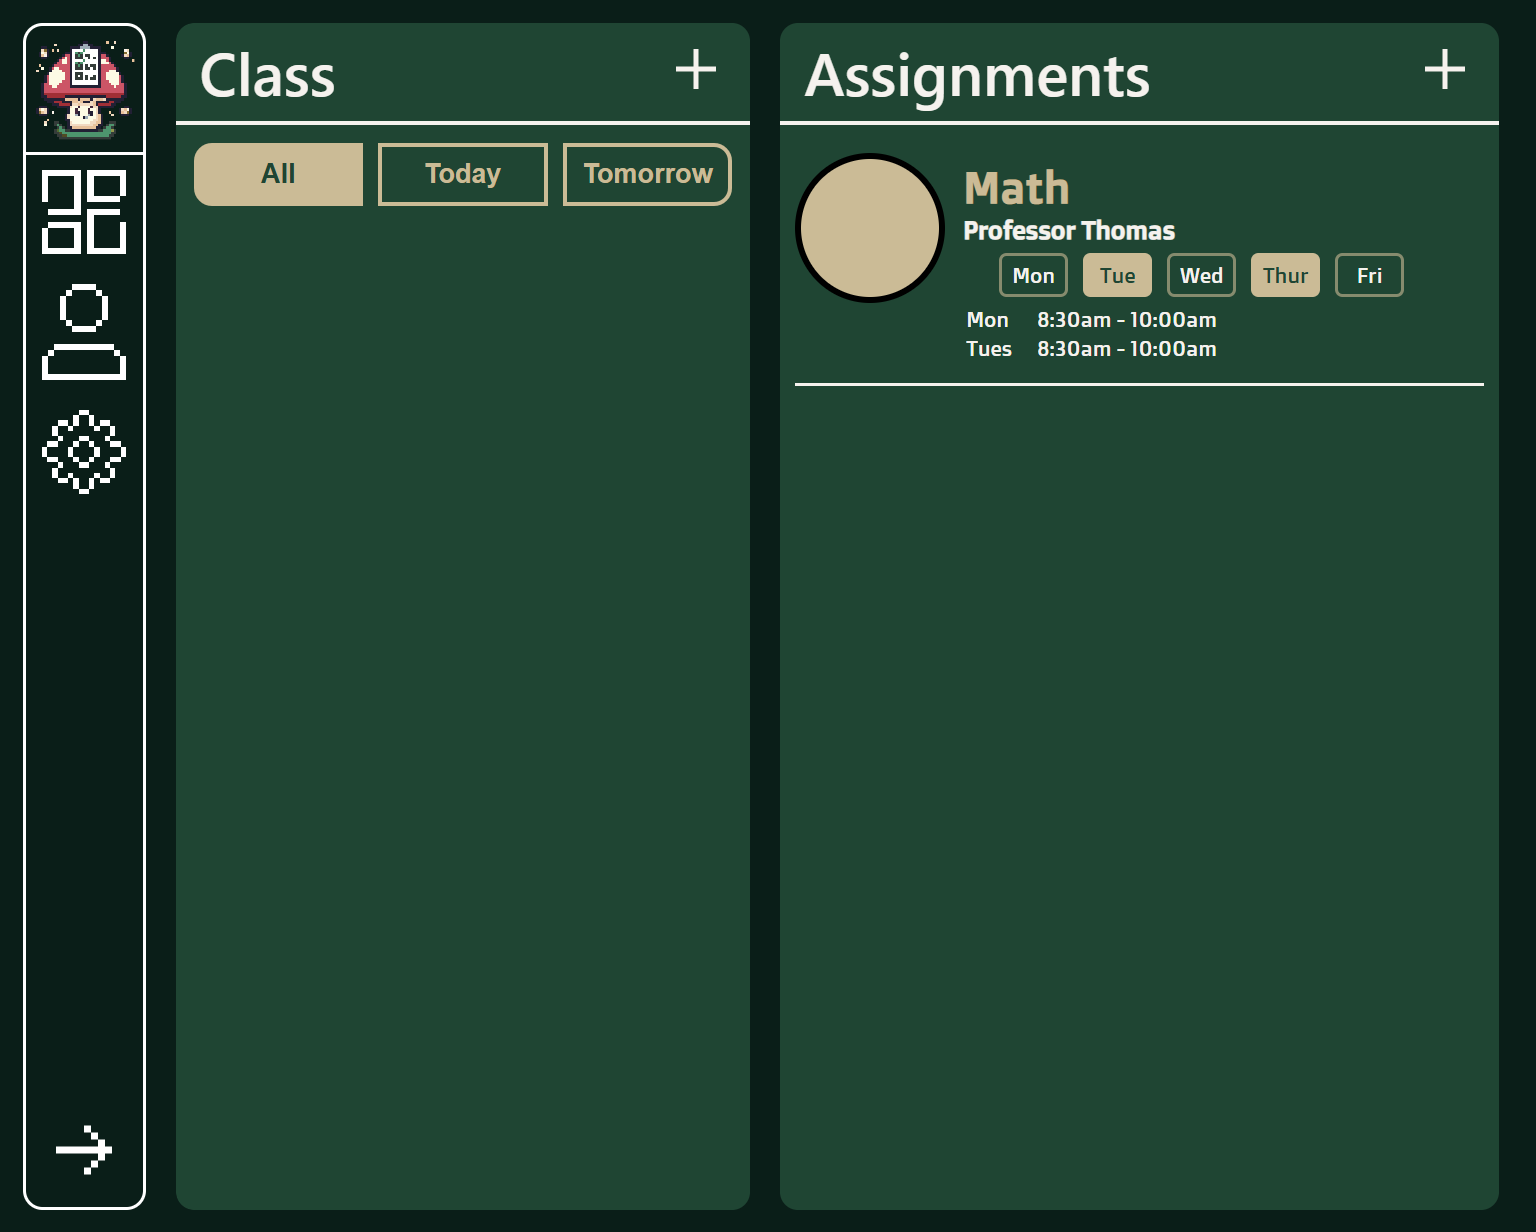
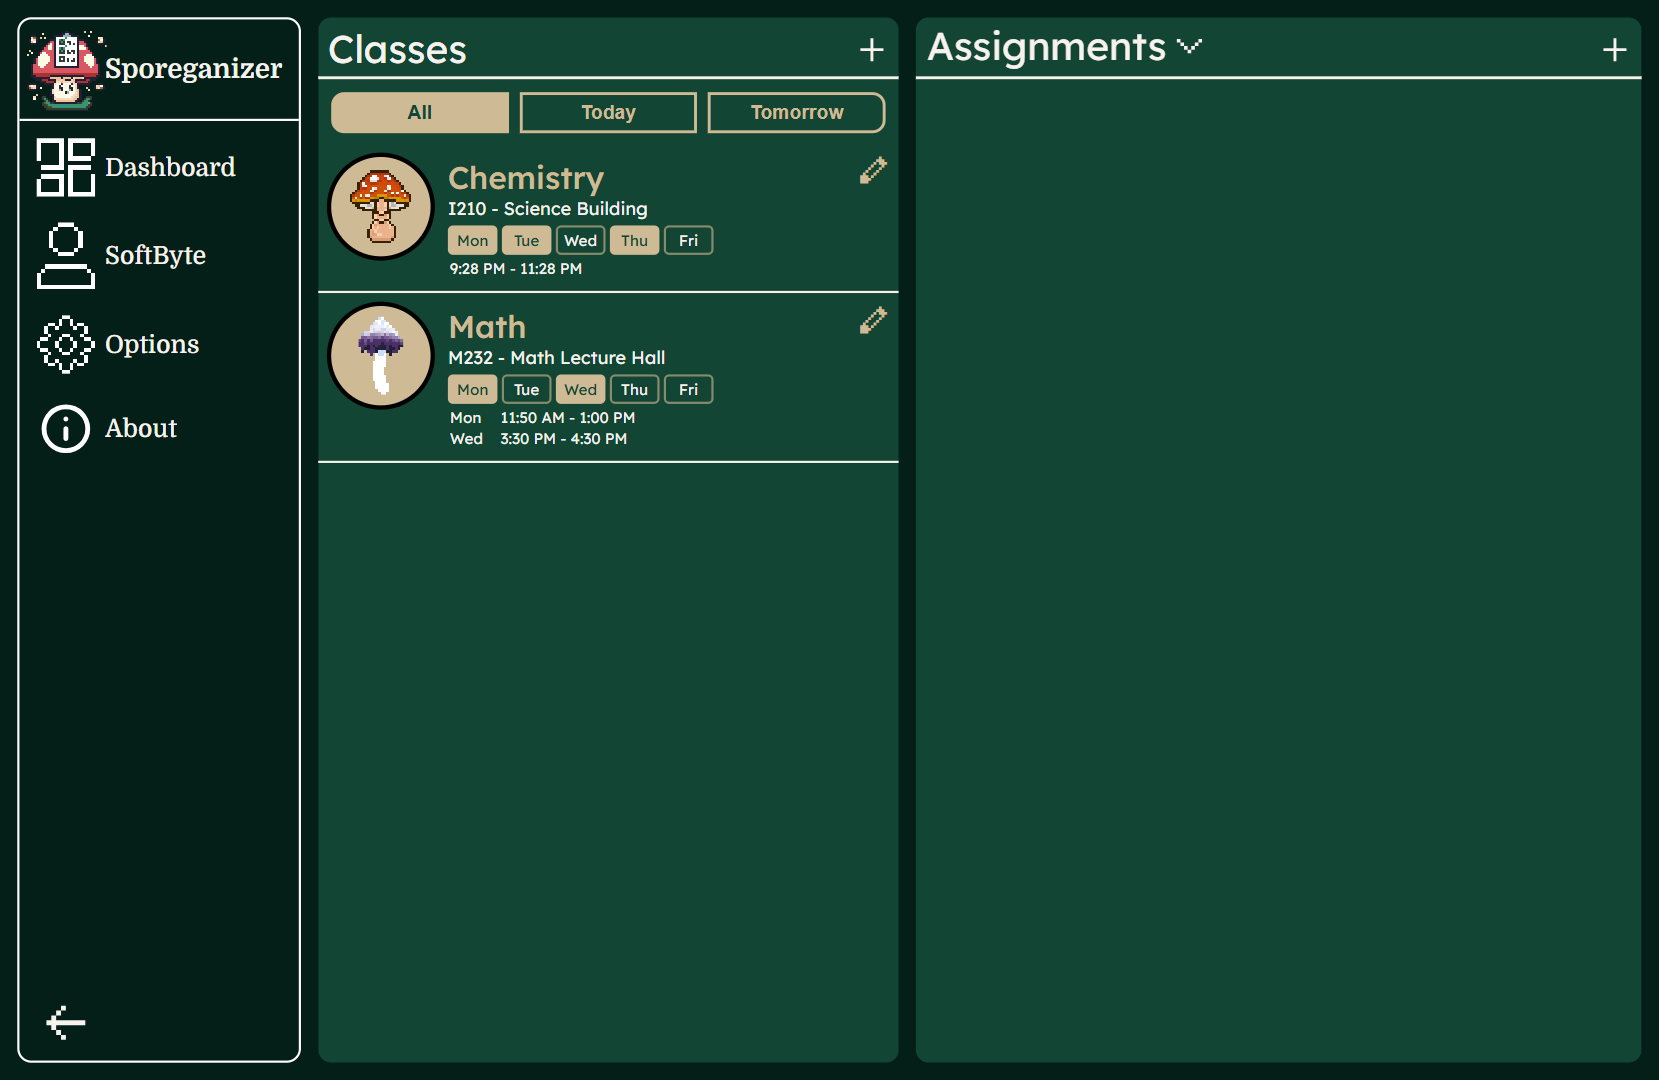
Fixed setting name mis-match
+ Added mushollow credit to footer.
+ Updated preview images on landing page

Changed region(s): [[0.0, 0.0, 1.0, 1.0]]

diff --git a/src/routes/+page.svelte b/src/routes/+page.svelte
@@ -126,18 +126,19 @@
 		<div class="mySlides fade">
 			<div class="numberText">1 / 3</div>
 			<img class="raw" alt="Preview 1" src="images/previewPics/preview1.png" />
+			<div class="text">Dashboard</div>
 		</div>
 
 		<div class="mySlides fade">
 			<div class="numberText">2 / 3</div>
 			<img class="raw" alt="Preview 2" src="images/previewPics/preview2.png" />
-			<div class="text">Caption Two</div>
+			<div class="text">Account</div>
 		</div>
 
 		<div class="mySlides fade">
 			<div class="numberText">3 / 3</div>
 			<img class="raw" alt="Preview 3" src="images/previewPics/preview3.png" />
-			<div class="text">Caption Three</div>
+			<div class="text">Options</div>
 		</div>
 
 		<!-- Next and previous buttons -->
@@ -154,6 +155,11 @@
 	<br />
 	<footer>
 		<span>Made with love by Erin Ballinger &lt;3</span>
-		<span>See more at <a href="https://erinballinger.com">erinballinger.com</a></span>
+		<span style="font-size: smaller; font-weight: 100 !important;"
+			>Banner and Mushrooms designed by Mushollow</span
+		>
+		<span style="margin-top: 5px;"
+			>See more at <a href="https://erinballinger.com">erinballinger.com</a></span
+		>
 	</footer>
 </div>

diff --git a/src/lib/firestoreDatabase.js b/src/lib/firestoreDatabase.js
@@ -114,9 +114,6 @@ export async function updateFieldInUserCollection(key, value) {
 }
 
 // Add class / assignment Documents
-/**
- * @param {{ name: string | undefined; icon: any; professor: any; time: any; }} classJson
- */
 export async function addClassToDatabase(classJson) {
 	if (!checkLogInStatus()) return;
 	if (classJson.name == '' || classJson.name == undefined) {
@@ -129,12 +126,11 @@ export async function addClassToDatabase(classJson) {
 			// @ts-ignore
 			name: DOMPurifyFunc(classJson.name),
 			// @ts-ignore
-			professor: DOMPurifyFunc(classJson.professor),
+			notes: DOMPurifyFunc(classJson.notes),
 			time: classJson.time,
 			// @ts-ignore
 			userId: getAuth().currentUser.uid,
-			createdAt: serverTimestamp(),
-			notes: ''
+			createdAt: serverTimestamp()
 		});
 		updateClassInCache(classRef.id, classJson);
 		return classRef.id;

diff --git a/src/lib/userData.js b/src/lib/userData.js
@@ -26,11 +26,13 @@ export async function syncSettings() {
 					if (user) {
 						try {
 							const userSettings = await getUserSettings(); // Ensure this is awaited
-							settings.do24HrTime = Boolean(userSettings['24hrTime']);
+							settings.do24HrTime = Boolean(userSettings['do24HrTime']);
 
 							Object.defineProperty(settings, 'hasBeenFetched', {
 								value: true
 							});
+							console.log(settings);
+
 							resolve(); // Resolve when settings are fully synced
 						} catch (error) {
 							console.error('Error syncing settings:', error);
@@ -59,6 +61,8 @@ export function getSettingParameter(key) {
 }
 export function updateSettingParameter(key, value) {
 	settings[key] = value;
+	console.log(settings);
+
 	console.log(`Setting Param Updated ${key}:${value}`);
 }
 

diff --git a/src/routes/options/+page.svelte b/src/routes/options/+page.svelte
@@ -95,11 +95,9 @@
 
 		Jquery('#24hrTimeInput').on('change', function () {
 			if (Jquery(this).is(':checked')) {
-				updateUserSettings('24hrTime', true);
-				updateSettingParameter('24hrTime', true);
+				updateUserSettings('do24HrTime', true);
 			} else {
-				updateUserSettings('24hrTime', false);
-				updateSettingParameter('24hrTime', false);
+				updateUserSettings('do24HrTime', false);
 			}
 		});
 	});

diff --git a/src/styles/dashboard.scss b/src/styles/dashboard.scss
@@ -43,7 +43,7 @@
 			}
 			h6 {
 				margin-bottom: 3px;
-				font-weight: 100;
+				font-weight: 400;
 			}
 			p {
 				font-size: 14px;
